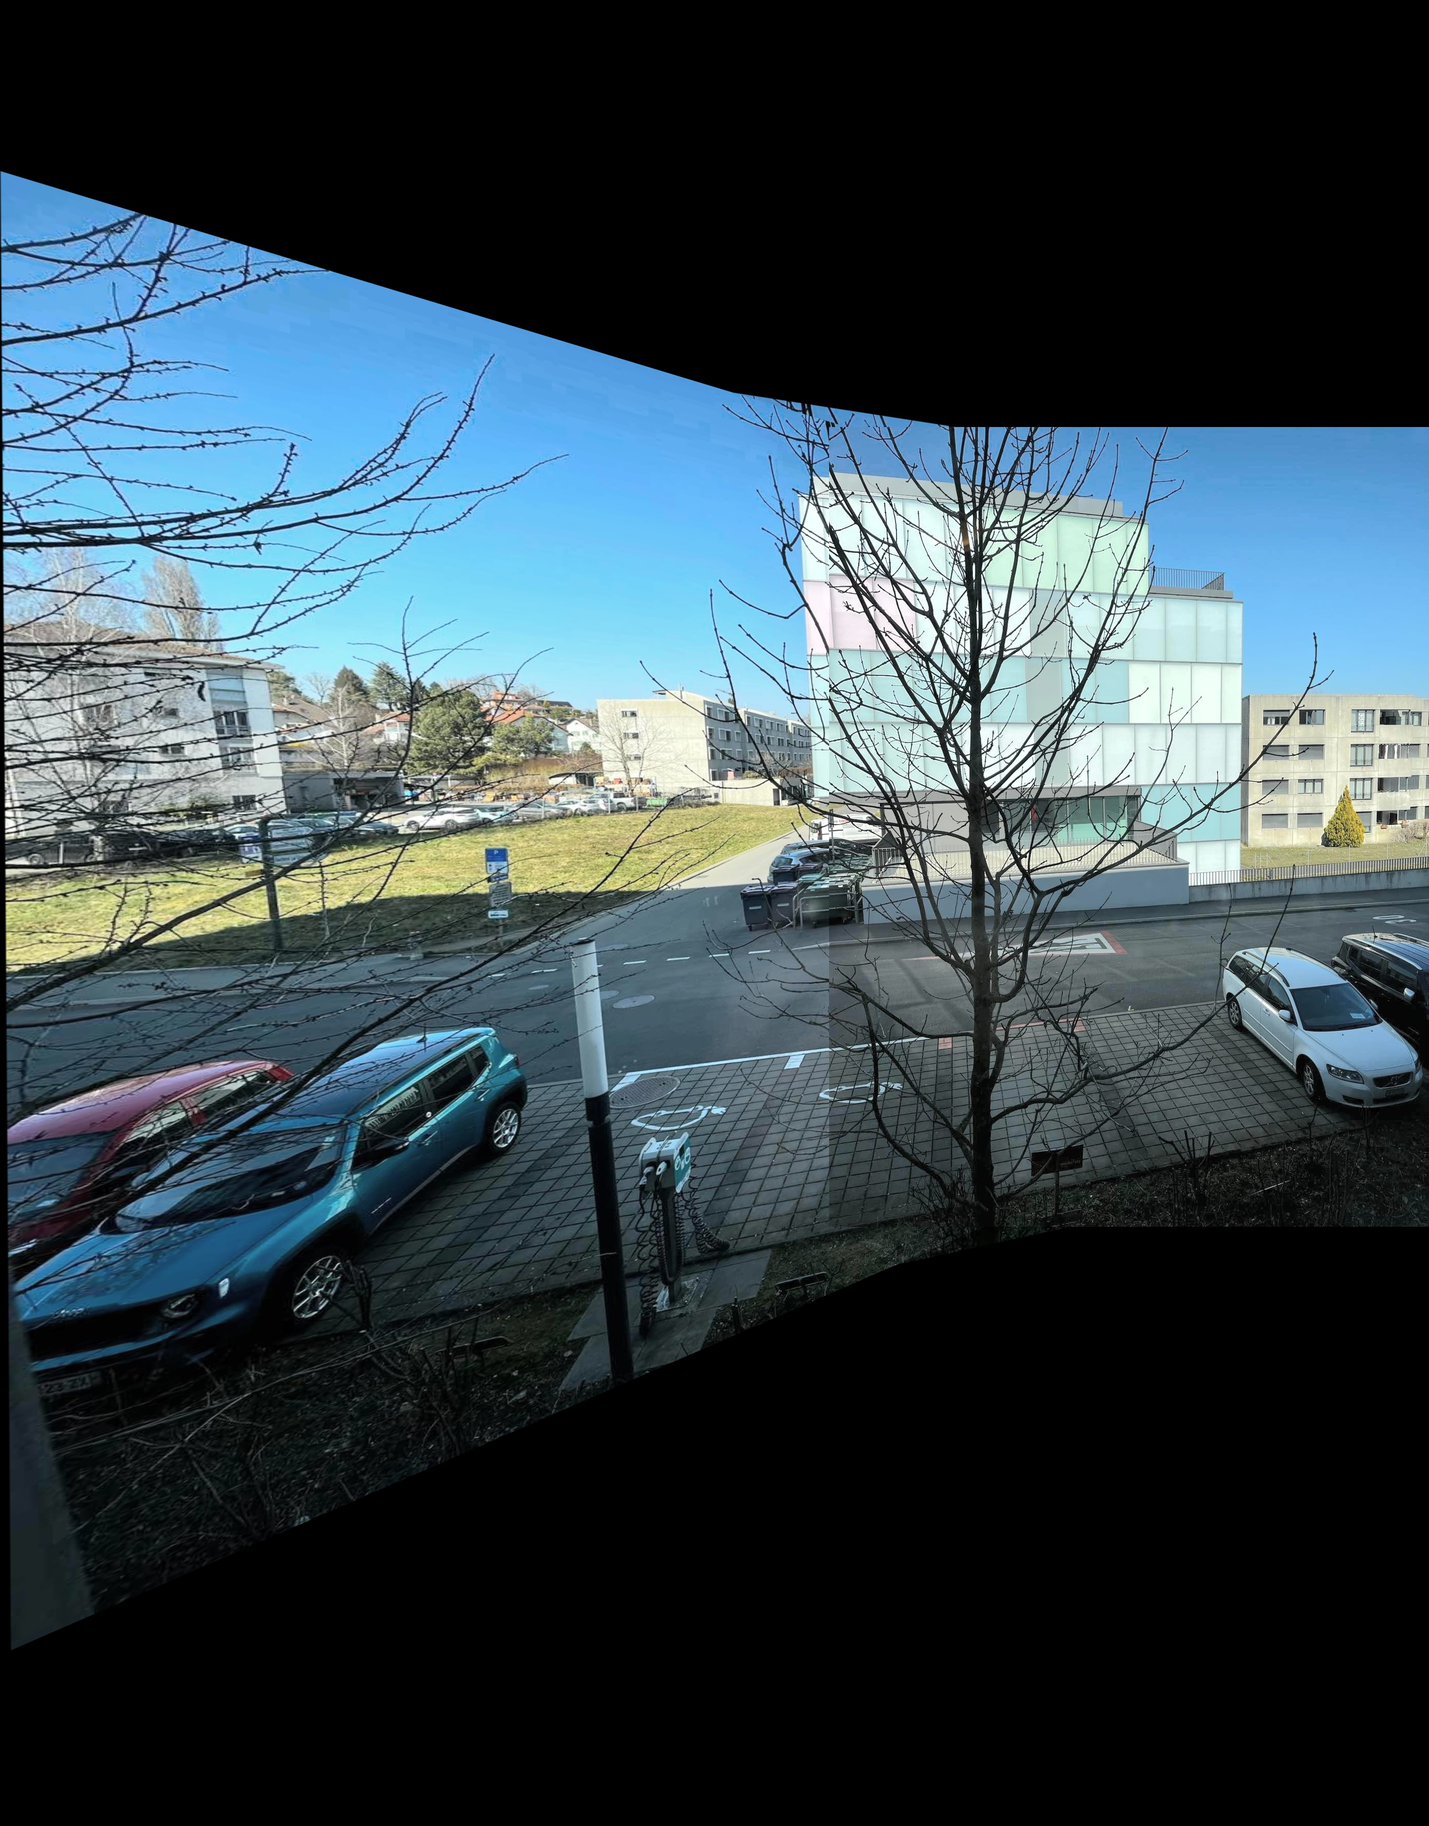
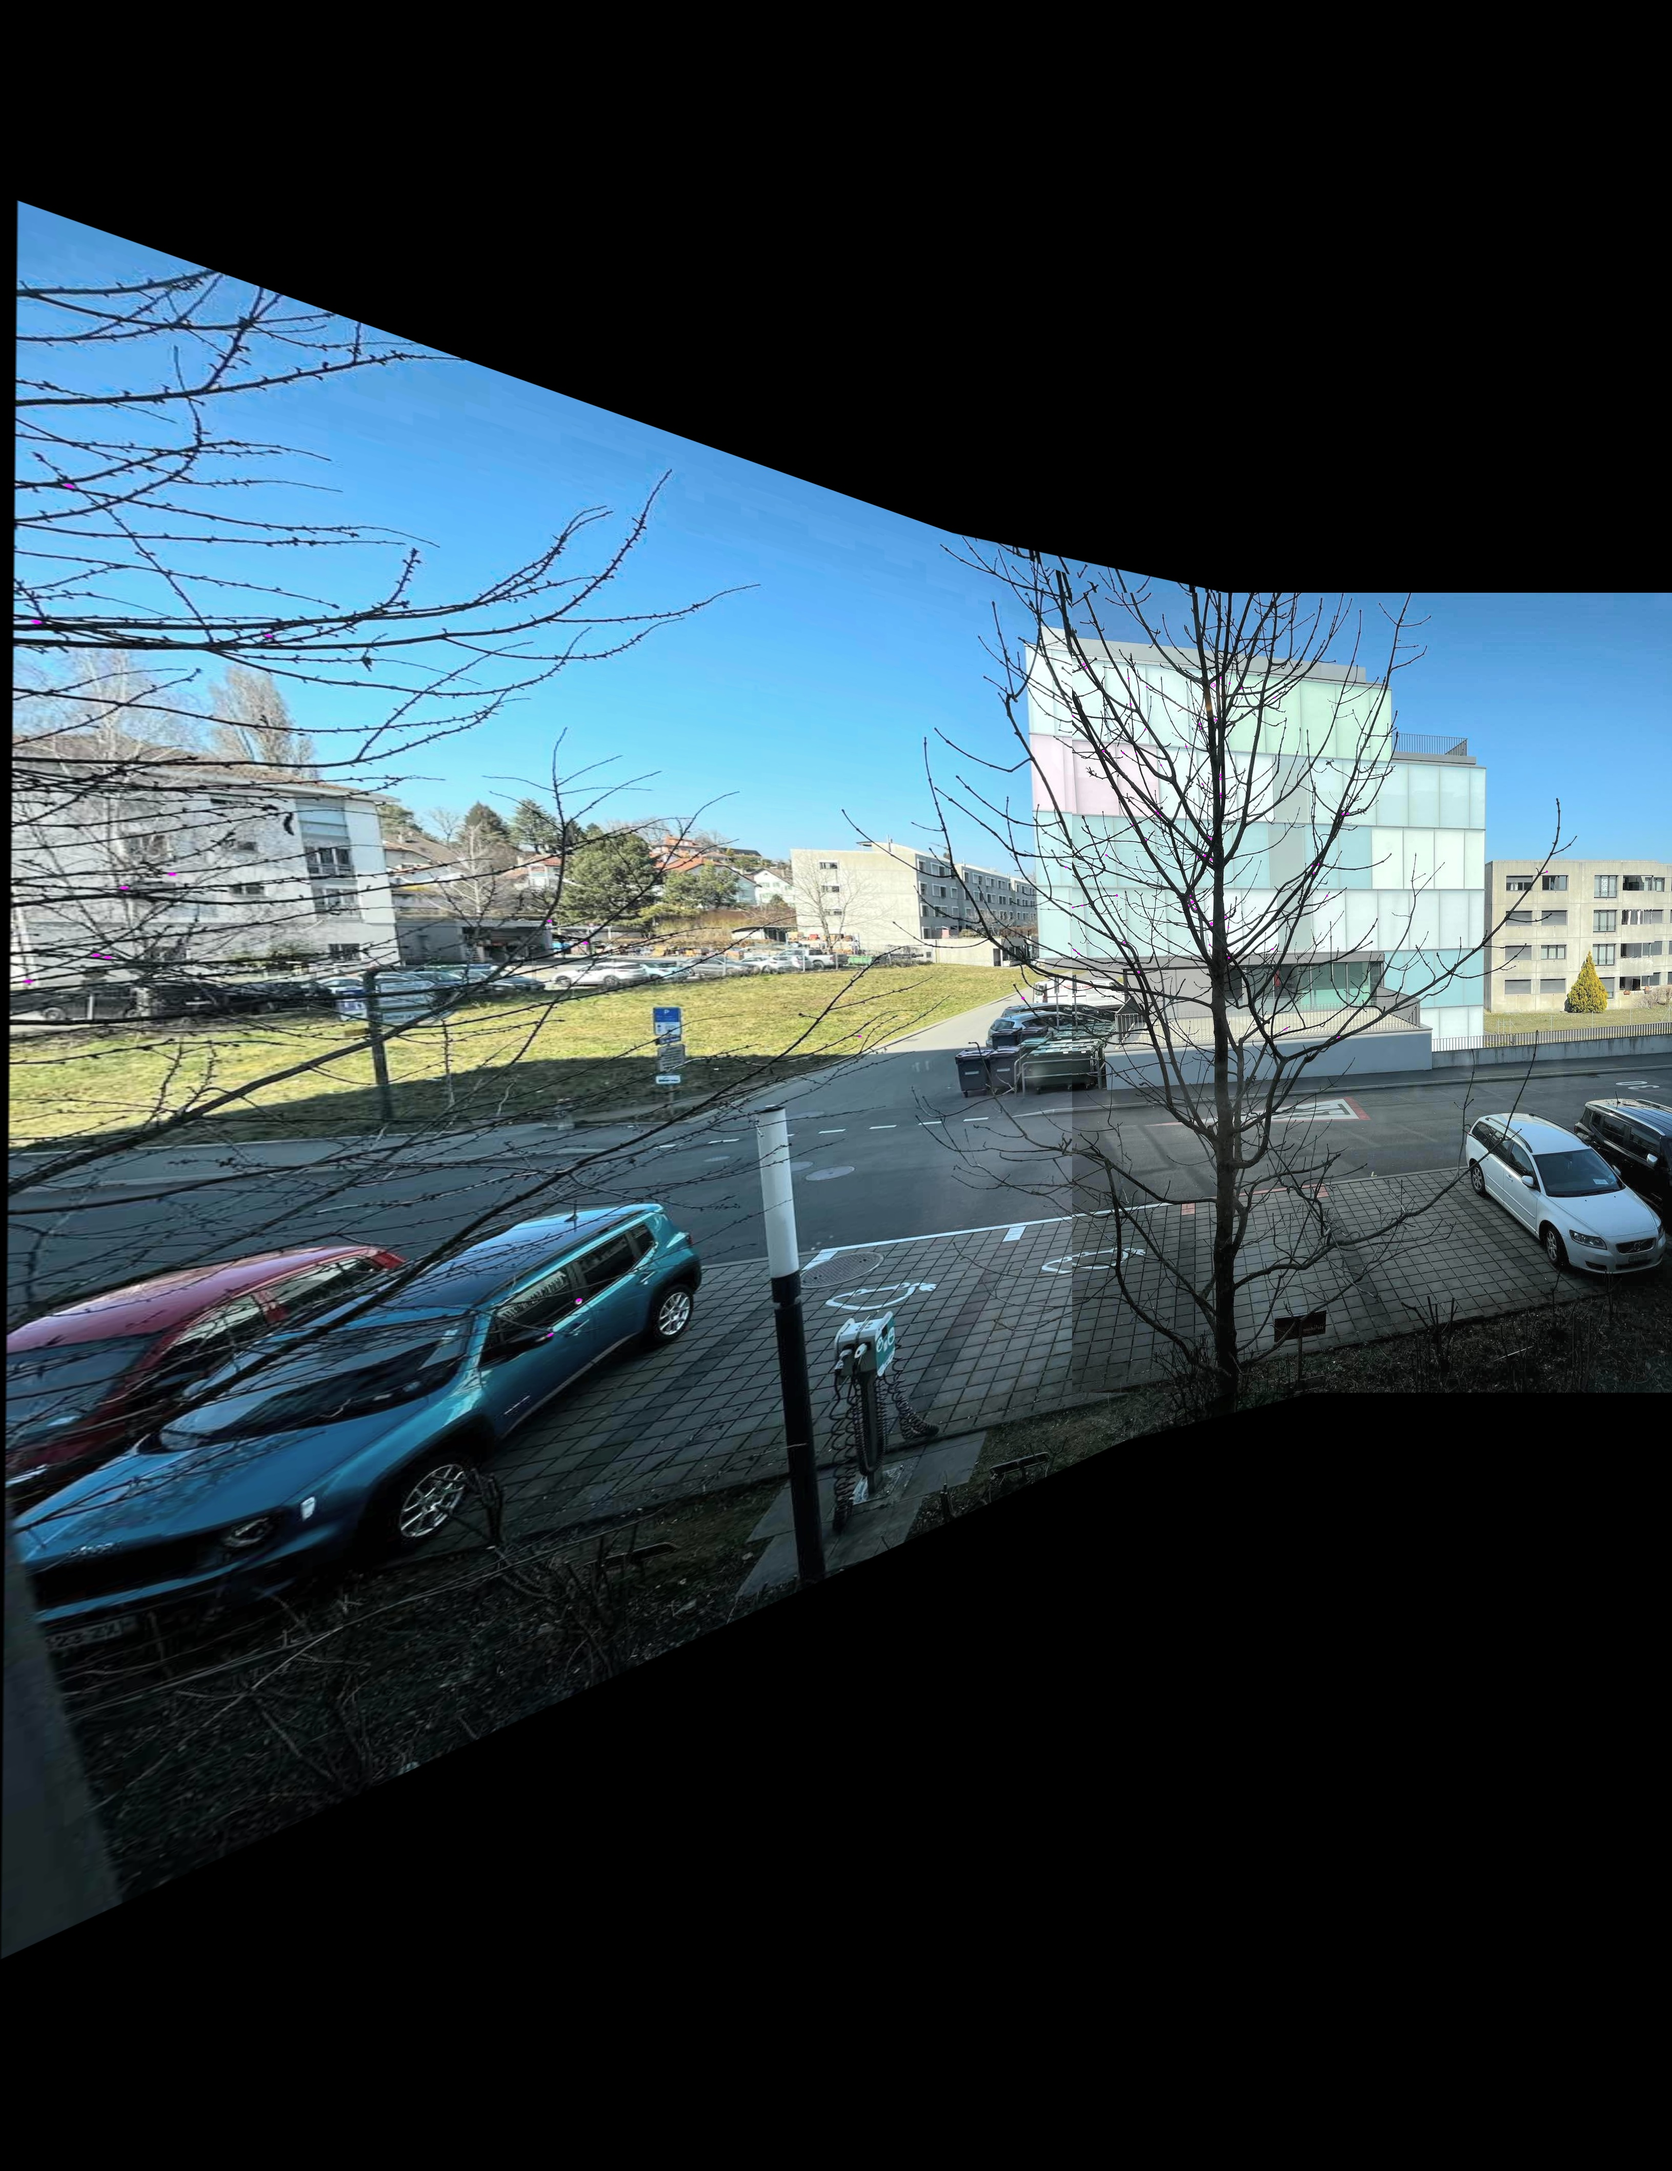
✨feature: support showing match keypoints of multiple pair of images

Changed region(s): [[0.0, 0.0935, 1.0, 0.9037], [0.2185, 0.7791, 0.2497, 0.8102], [0.1873, 0.8102, 0.2185, 0.8414]]

diff --git a/stitch_images.py b/stitch_images.py
@@ -117,8 +117,10 @@ def equalize_histogram_color(img):
     img = cv2.cvtColor(img_yuv, cv2.COLOR_YUV2BGR)
     return img
 
+match_count = 0
+def draw_matched_keypoint(img1, img2, wait=False):
+    global match_count
 
-def draw_matched_keypoint(img1, img2):
     sift = cv2.SIFT_create(100)
     kp1, des1 = sift.detectAndCompute(img1, None)
     kp2, des2 = sift.detectAndCompute(img2, None)
@@ -151,9 +153,11 @@ def draw_matched_keypoint(img1, img2):
     # # draw verified matches
     outImg = None
     outImg = cv2.drawMatchesKnn(img1, kp1, img2, kp2, goodMatches, outImg, flags=cv2.DRAW_MATCHES_FLAGS_DEFAULT)
-    cv2.imshow('match', outImg)
-    cv2.waitKey(0)
-    cv2.destroyAllWindows()
+    match_count += 1
+    show_image(outImg, f'Match {match_count}')
+    if wait:
+        cv2.waitKey(0)
+        cv2.destroyAllWindows()
 
 def stitch_images(img1, img2):
     # Equalize histogram
@@ -164,18 +168,18 @@ def stitch_images(img1, img2):
     M, img1_key, img2_key = get_sift_homography(img1, img2)
 
     # Stitch the images together using homography matrix
-    return get_stitched_image(img2, img1, M)
+    return get_stitched_image(img2, img1, M), [img1_key, img2_key]
 
 def save_image(img, name):
     result_image_name = os.path.join('results/', f'result_{name}.jpg')
     cv2.imwrite(result_image_name, img)
 
-def show_result(img, width=1024, inter=cv2.INTER_AREA):
+def show_image(img, title, width=1024, inter=cv2.INTER_AREA):
     (h, w) = img.shape[:2]
     r = width / float(w)
     dim = (width, int(h * r))
     resized = cv2.resize(img, dim, interpolation=inter)
-    cv2.imshow('Result', resized)
+    cv2.imshow(title, resized)
 
 # Main function definition
 def main():
@@ -183,22 +187,26 @@ def main():
     assert os.path.isdir(sys.argv[1]), 'Error: Please provide the valid path to the directory of the images'
 
     first_img = True
+    input_images = []
     for filename in os.listdir(sys.argv[1]):
         f = os.path.join(sys.argv[1], filename)
         if os.path.isfile(f):
             if first_img:
                 img1 = cv2.imread(f)
+                input_images.append(img1)
                 first_img = False
                 continue
 
             img2 = cv2.imread(f)
-            img1 = stitch_images(img1, img2)
+            input_images.append(img2)
+            img1, [img1_key, img2_key] = stitch_images(img1, img2)
 
+            # Show matched keypoint of two images
+            draw_matched_keypoint(img1, img2)
     save_image(img1, sys.argv[2])
 
     # Show the resulting image
-    show_result(img1)
-    # draw_matched_keypoint(img1, img2)
+    show_image(img1, 'Result')
     cv2.waitKey()
 
 
